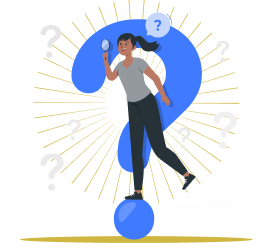
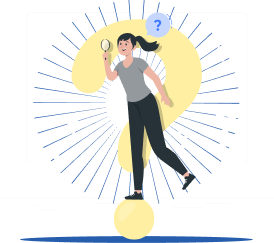
several issue fix

diff --git a/src/app/site/legit-script/legit-script.component.html b/src/app/site/legit-script/legit-script.component.html
@@ -4,7 +4,7 @@
 
 <!--====|| Book Now Banner Start ||====-->
 <section class="other-page-banner common-banner other-page-banner--bg position-relative overflow-hidden z-1 ">
-  <div class="container">
+  <div class="container position-relative z-1">
     <div class="row mt-20">
       <div class="col-md-7 pe-xl-150 pe-lg-50">
         <div class="text-md-start text-center">
@@ -107,7 +107,7 @@
               <i class="icon-message"></i>
             </div>
             <div>
-              <p class="mt-40 fw-bold">1. Advisory Services:</p>
+              <p class="mt-40 fw-bold fs-md-24 fs-18">1. Advisory Services:</p>
               <p>
                 Our team of experts provides personalized guidance throughout
                 the LegitScript application process, ensuring accuracy and
@@ -127,7 +127,7 @@
               <i class="icon-hand-shake"></i>
             </div>
             <div>
-              <p class="mt-40 fw-bold">2. Strong Partnership:</p>
+              <p class="mt-40 fw-bold fs-md-24 fs-18">2. Strong Partnership:</p>
               <p>
                 Thrive Well’s direct relationship with LegitScript allows us to
                 expedite application processing times significantly.
@@ -159,7 +159,7 @@
               <i class="icon-directions"></i>
             </div>
             <div>
-              <p class="mt-40 fw-bold">3. Professional Guidance:</p>
+              <p class="mt-40 fw-bold fs-md-24 fs-18">3. Professional Guidance:</p>
               <p>
                 Our seasoned professionals stay current with regulatory changes,
                 ensuring smooth navigation through the certification process.
@@ -178,7 +178,7 @@
               <i class="icon-order-approved"></i>
             </div>
             <div>
-              <p class="mt-40 fw-bold">4. Effortless Compliance:</p>
+              <p class="mt-40 fw-bold fs-md-24 fs-18">4. Effortless Compliance:</p>
               <p>
                 Achieving LegitScript certification enhances your online
                 credibility and broadens your customer base. We ensure strict
@@ -198,7 +198,7 @@
               <i class="icon-customer-support"></i>
             </div>
             <div>
-              <p class="mt-40 fw-bold">5. Continuous Support:</p>
+              <p class="mt-40 fw-bold fs-md-24 fs-18">5. Continuous Support:</p>
               <p>
                 Beyond certification, we offer continuous support, from
                 compliance monitoring to e-commerce strategy development,

diff --git a/src/app/site/about-us/about-us.component.html b/src/app/site/about-us/about-us.component.html
@@ -18,7 +18,7 @@
           About Us
         </h6>
         <h5
-          class="fs-md-20 fs-16 fw-light text-\capitalize h5-special mt-10"
+          class="fs-md-32 fs-16 fw-light text-\capitalize h5-special mt-10"
           data-aos="fade-up"
           data-aos-duration="900"
           data-aos-easing="ease-in-out-cubic"
@@ -27,7 +27,7 @@
           comprehensive, turnkey digital telehealth platforms.
         </h5>
         <h5
-          class="fs-md-20 fs-16 fw-light text-capitalize mt-20 h5-special"
+          class="fs-md-32 fs-16 fw-light text-capitalize mt-20 h5-special"
           data-aos="fade-up"
           data-aos-duration="900"
           data-aos-easing="ease-in-out-cubic"
@@ -147,7 +147,7 @@
 
   <!--====|| Innovative Technology Section Start ||====-->
   <section
-    class="it-section section position-relative overflow-hidden bg-secondary-light"
+    class="it-section section telehealth-section"
   >
     <div class="container">
       <div class="row">
@@ -236,14 +236,28 @@
         </div>
       </div>
     </div>
-    <!-- <div class="it-frame">
-      <div class="top-right-frame position-absolute top-0 end-0">
+    <div class="telehealth-frame">
+      <div class="frame-top-left">
         <img
-          src="images/about/frame/innovative-technology/top-right.svg"
-          alt="Top Right Frame"
-        >
+          src="images/home/frame/telehealth-partner/top-left-frame.svg"
+          alt="Top Frame"
+        />
       </div>
-    </div> -->
+
+      <div class="frame-top">
+        <img
+          src="images/home/frame/telehealth-partner/top-frame.svg"
+          alt="Top Frame"
+        />
+      </div>
+
+      <div class="frame-bg">
+        <img
+          src="images/home/frame/telehealth-partner/frame-bg.svg"
+          alt="Frame Bg"
+        />
+      </div>
+    </div>
   </section>
   <!--====|| Innovative Technology Section End ||====-->
 

diff --git a/src/styles/pages/_faq.scss b/src/styles/pages/_faq.scss
@@ -1,8 +1,8 @@
 .faq-banner {
   .search-box {
-    border: 3px solid #fbeeaa;
+    // border: 3px solid #fbeeaa;
     max-width: 470px;
-    padding: 15px 24px;
+    padding: 17.5px 24px;
     border-radius: 8px;
     background-color: #fff;
     i {

diff --git a/src/styles/pages/_about-us.scss b/src/styles/pages/_about-us.scss
@@ -41,7 +41,7 @@
     .top-right-frame {
       position: absolute;
       z-index: -1;
-      top: -35px;
+      top: 35px;
       right: -150px;
     }
     .bottom-right-frame {
